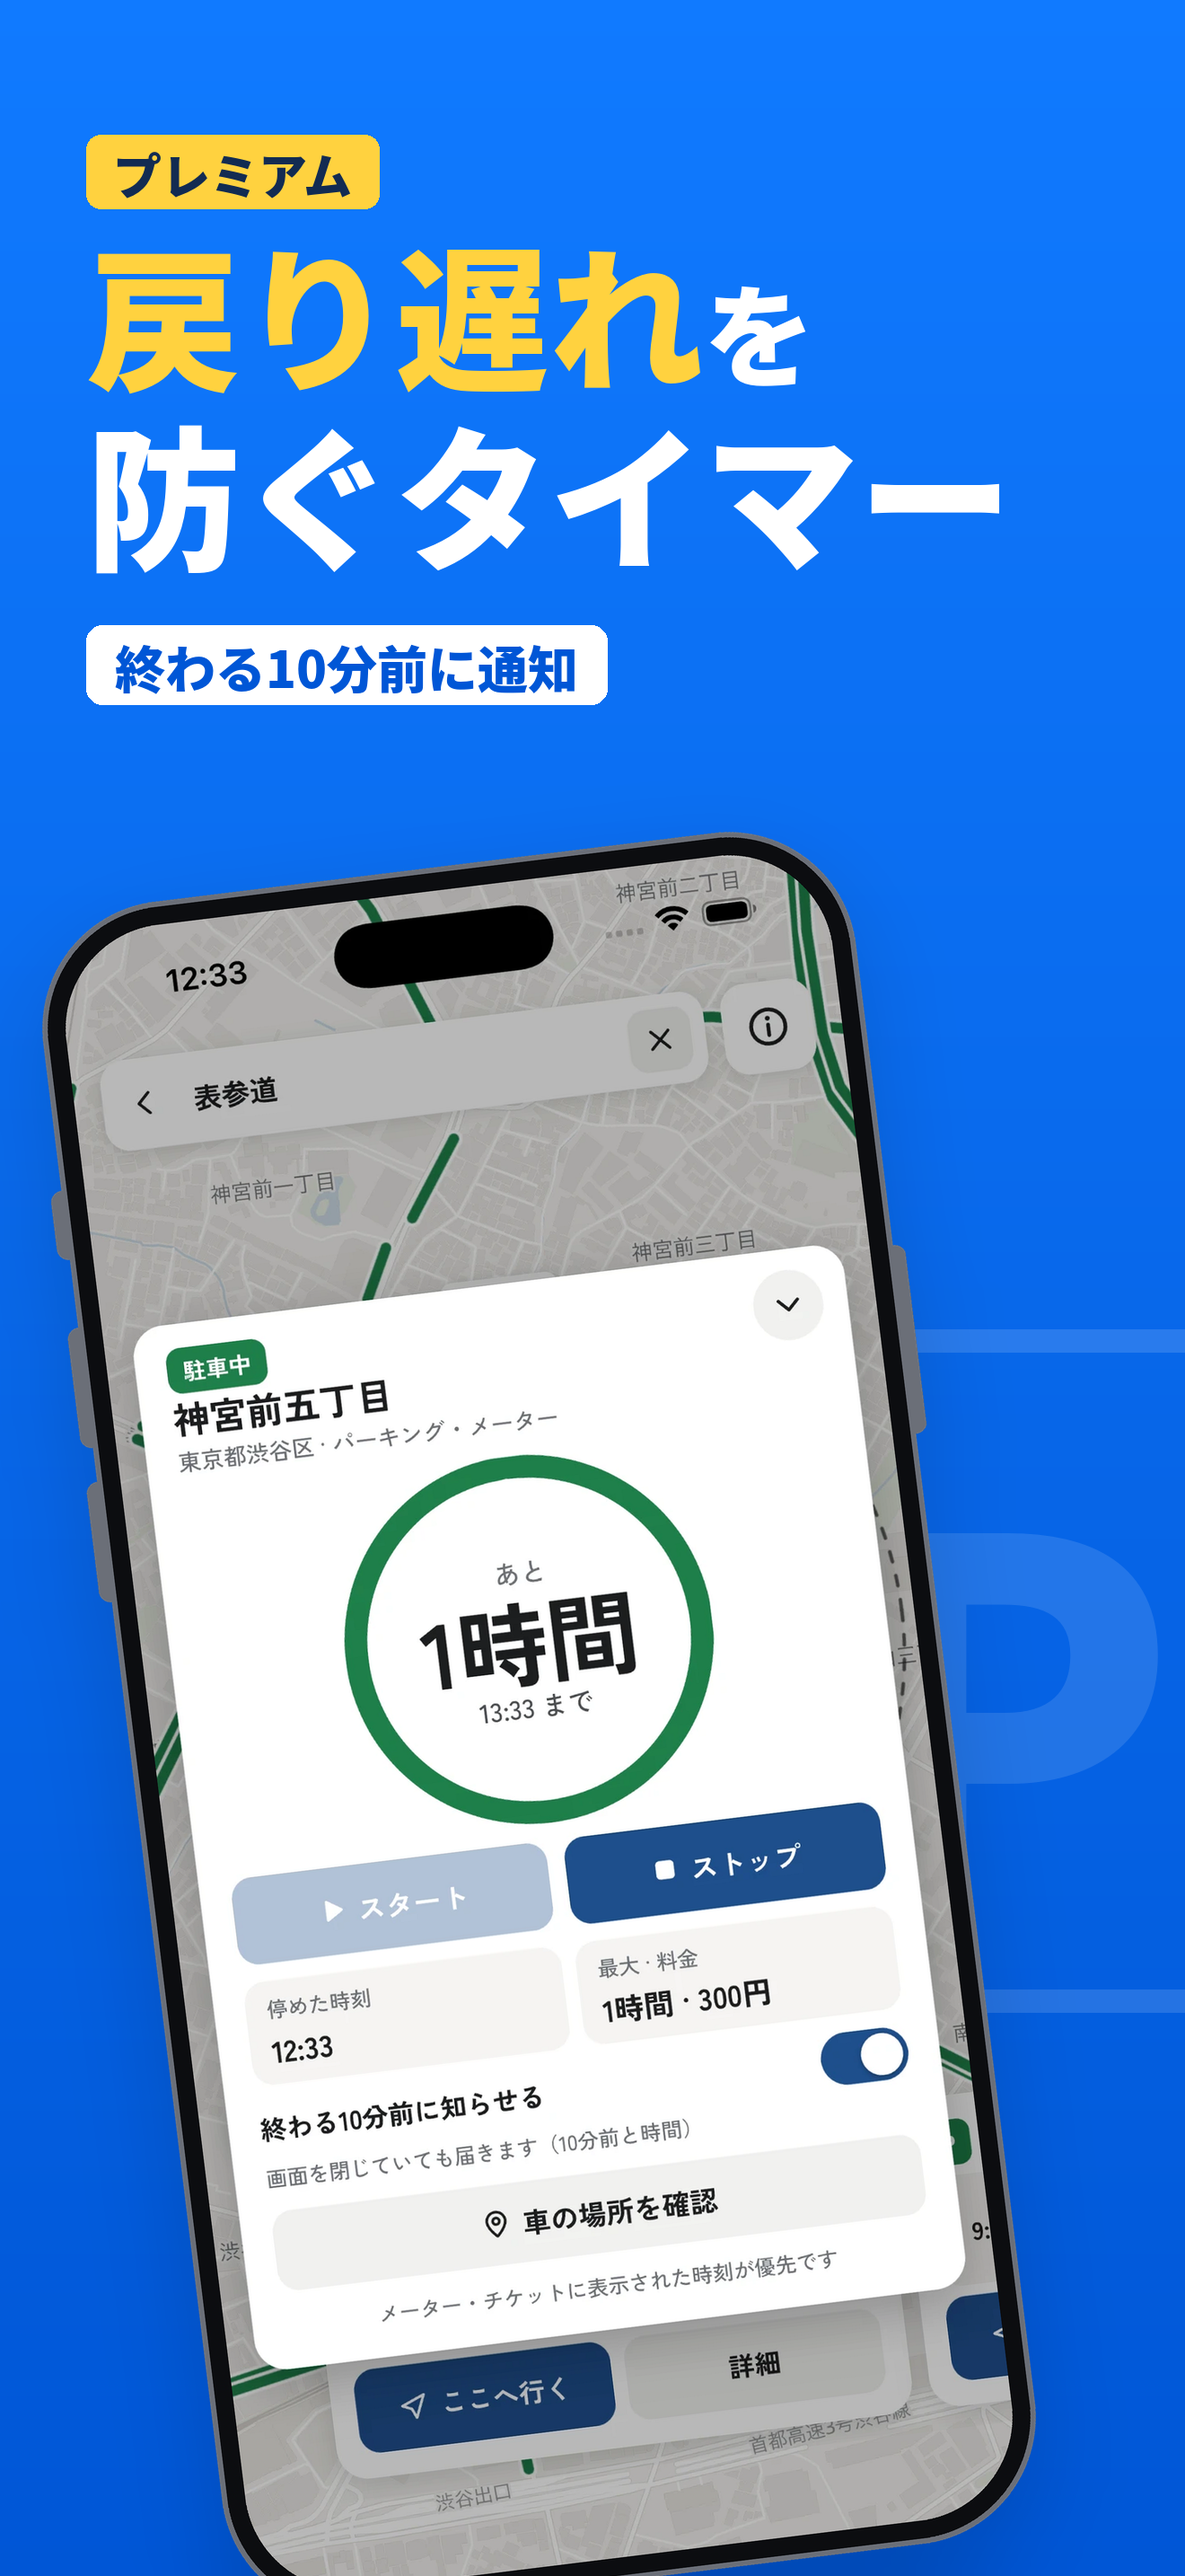
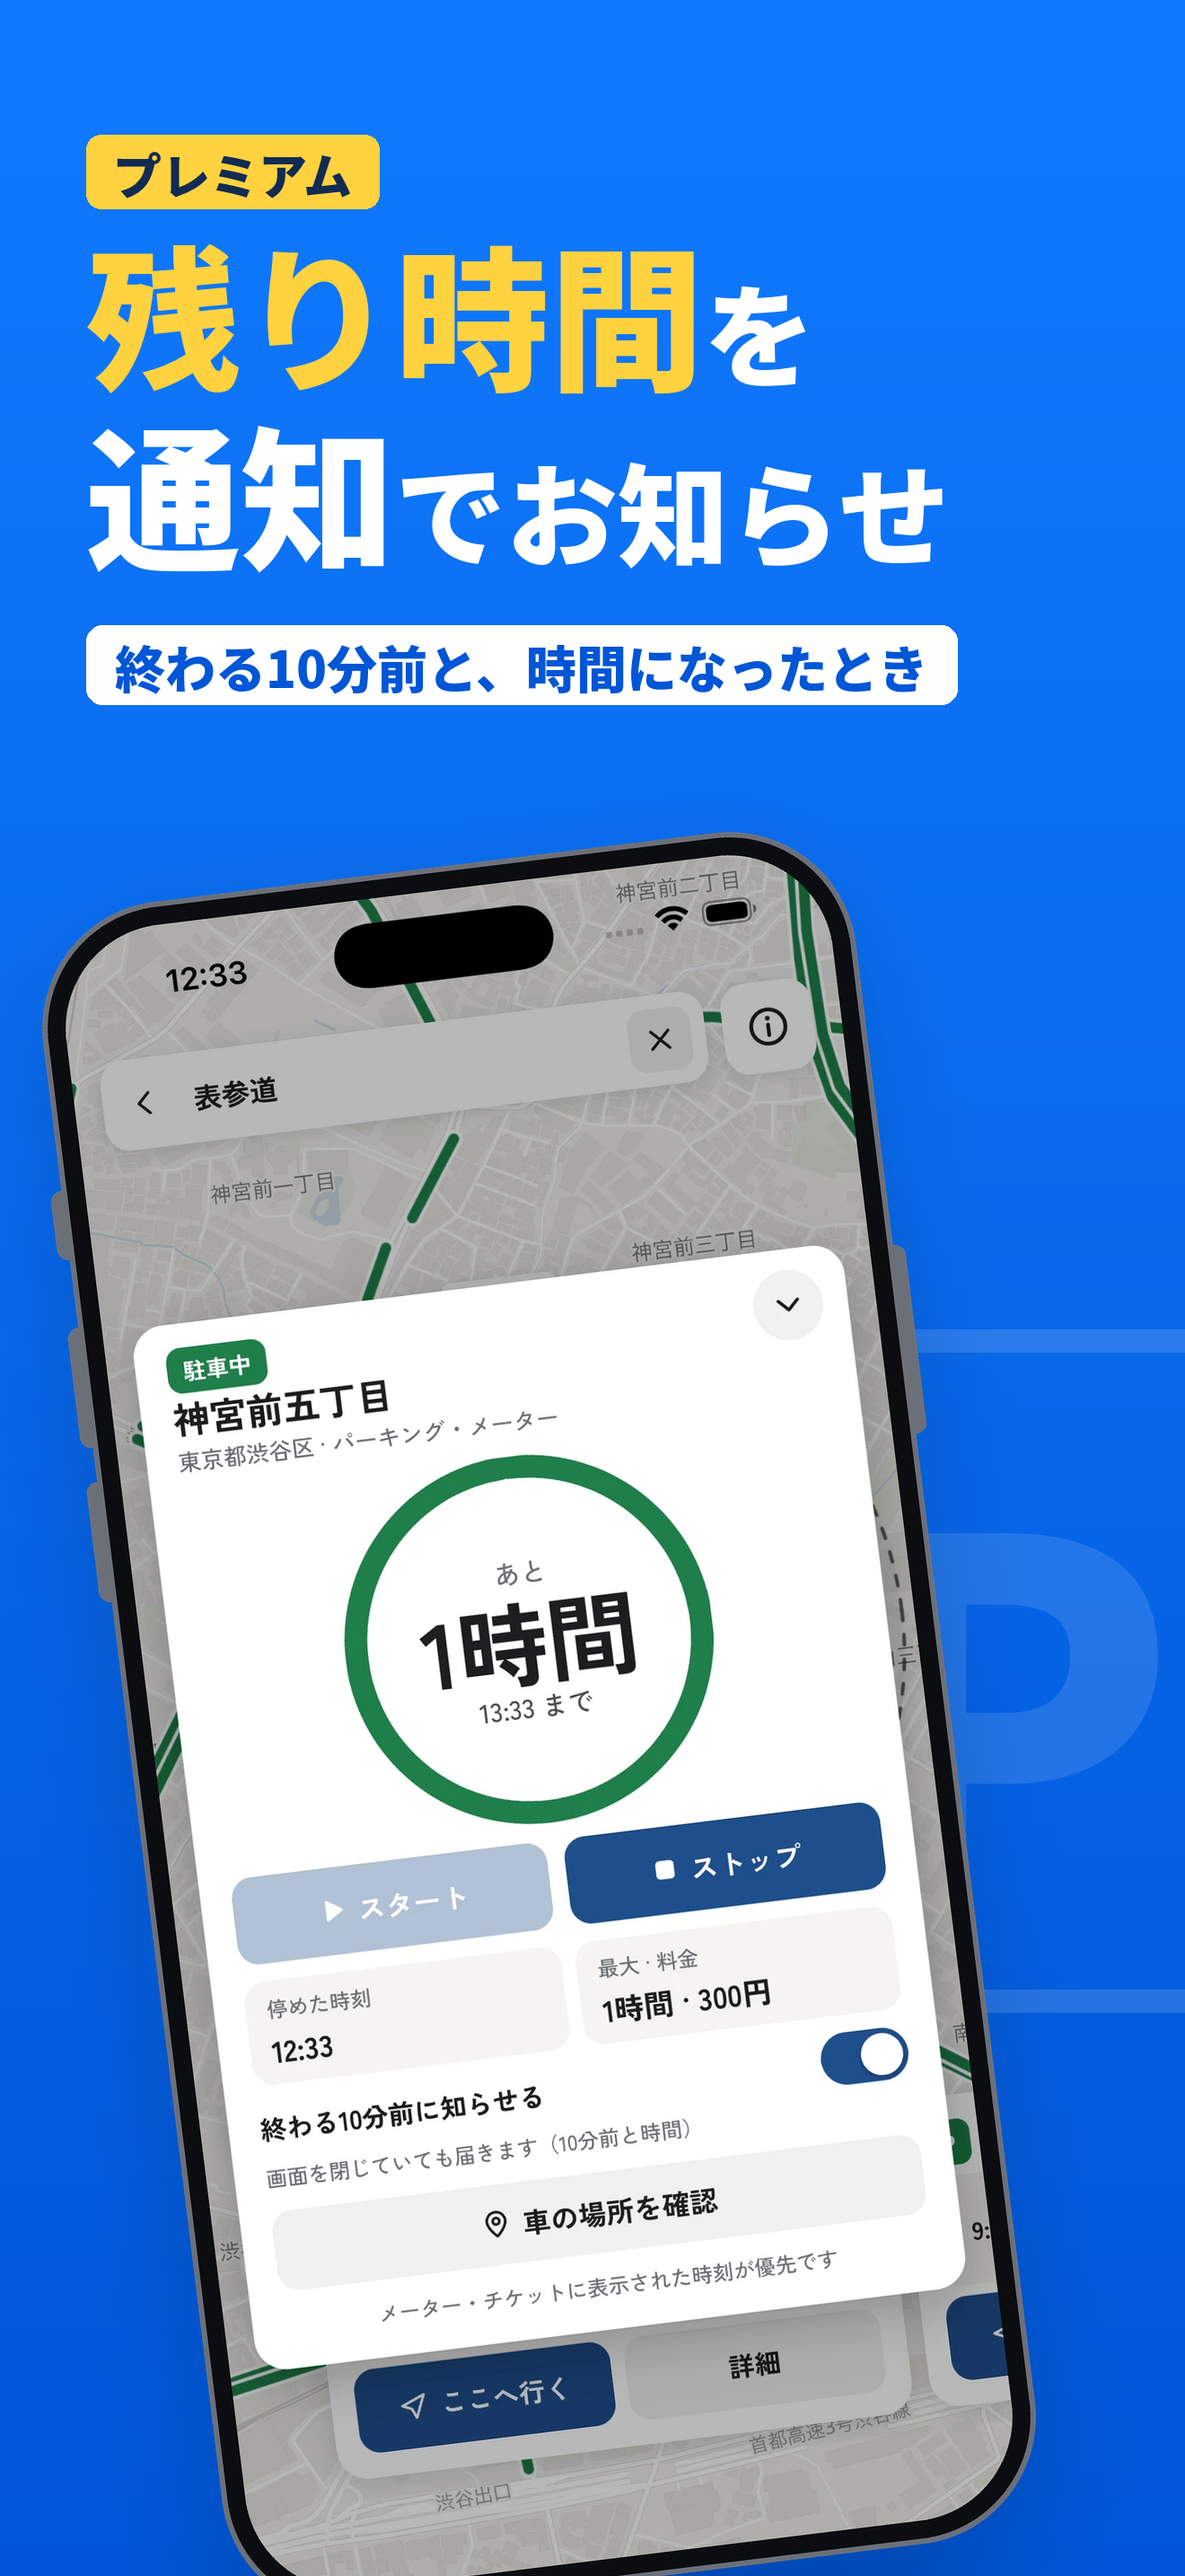
スクリーンショット3・4枚目の見出しを直す
- 3枚目：「行き先の近くを近い順に」→「目的地から探せる」（補足：駅名・地名で、近い順に表示）
- 4枚目：「戻り遅れを防ぐタイマー」→「残り時間を通知でお知らせ」（補足：終わる10分前と、時間になったとき）

Claude-Session: https://claude.ai/code/session_017tmsz114oRHaDqtC5w946x

Changed region(s): [[0.0621, 0.0931, 0.8386, 0.2793]]

diff --git a/store-assets/make_store_assets.py b/store-assets/make_store_assets.py
@@ -139,15 +139,14 @@ SLIDES = [
          lines=[[('時間', BIG, YELLOW), ('も', SMALL, WHITE), ('料金', BIG, YELLOW), ('も', SMALL, WHITE)],
                 [('すぐ確認', BIG, WHITE)]],
          tag='曜日・祝日・年末年始まで判定'),
-    dict(src='13.webp', out='03_行き先の近く.png', angle=-8,
-         lines=[[('行き先', BIG, YELLOW), ('の', SMALL, WHITE)],
-                [('近く', BIG, WHITE), ('を', SMALL, WHITE)],
-                [('近い順', BIG, WHITE), ('に', SMALL, WHITE)]],
-         tag='駅名・地名で探せる'),
+    dict(src='13.webp', out='03_目的地から.png', angle=-8,
+         lines=[[('目的地', BIG, YELLOW), ('から', SMALL, WHITE)],
+                [('探せる', BIG, WHITE)]],
+         tag='駅名・地名で、近い順に表示'),
     dict(src='14.webp', out='04_タイマー.png', angle=7, badge='プレミアム',
-         lines=[[('戻り遅れ', BIG, YELLOW), ('を', SMALL, WHITE)],
-                [('防ぐタイマー', BIG, WHITE)]],
-         tag='終わる10分前に通知'),
+         lines=[[('残り時間', BIG, YELLOW), ('を', SMALL, WHITE)],
+                [('通知', BIG, WHITE), ('でお知らせ', SMALL, WHITE)]],
+         tag='終わる10分前と、時間になったとき'),
     dict(src='15.webp', out='05_すぐ案内.png', angle=-8,
          lines=[[('行き方', BIG, YELLOW), ('も', SMALL, WHITE)],
                 [('すぐ案内', BIG, WHITE)]],
